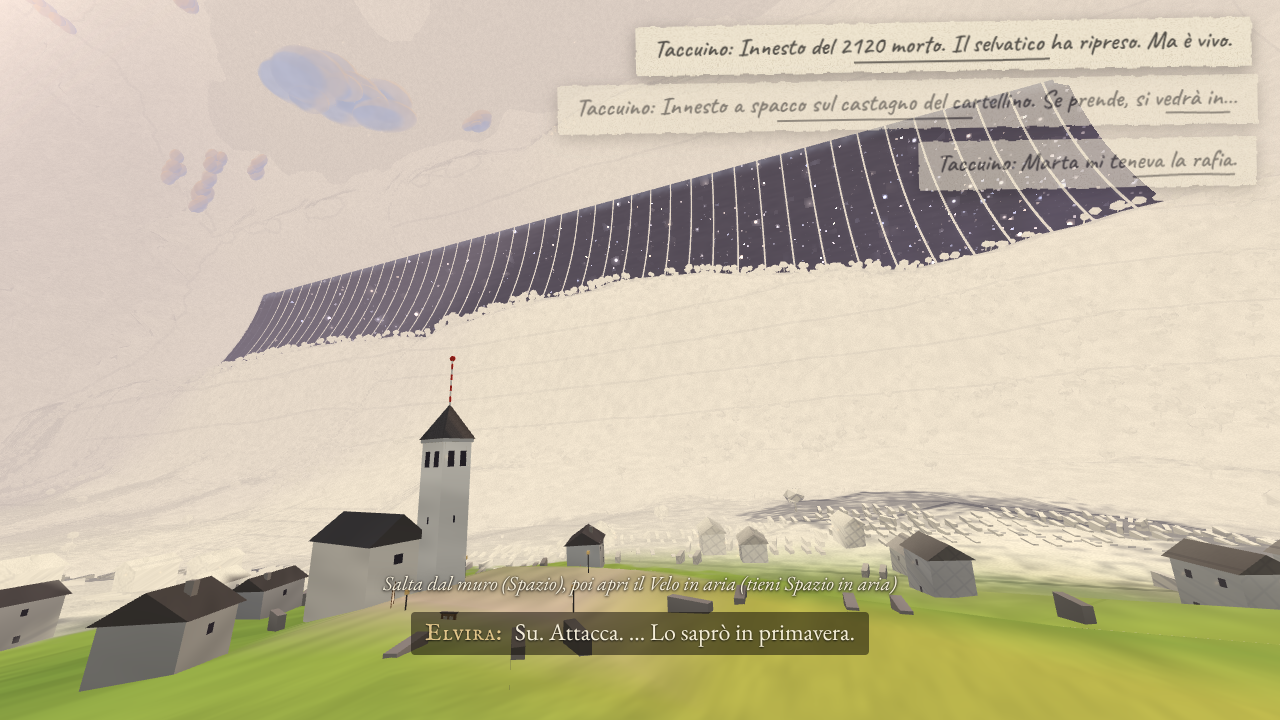
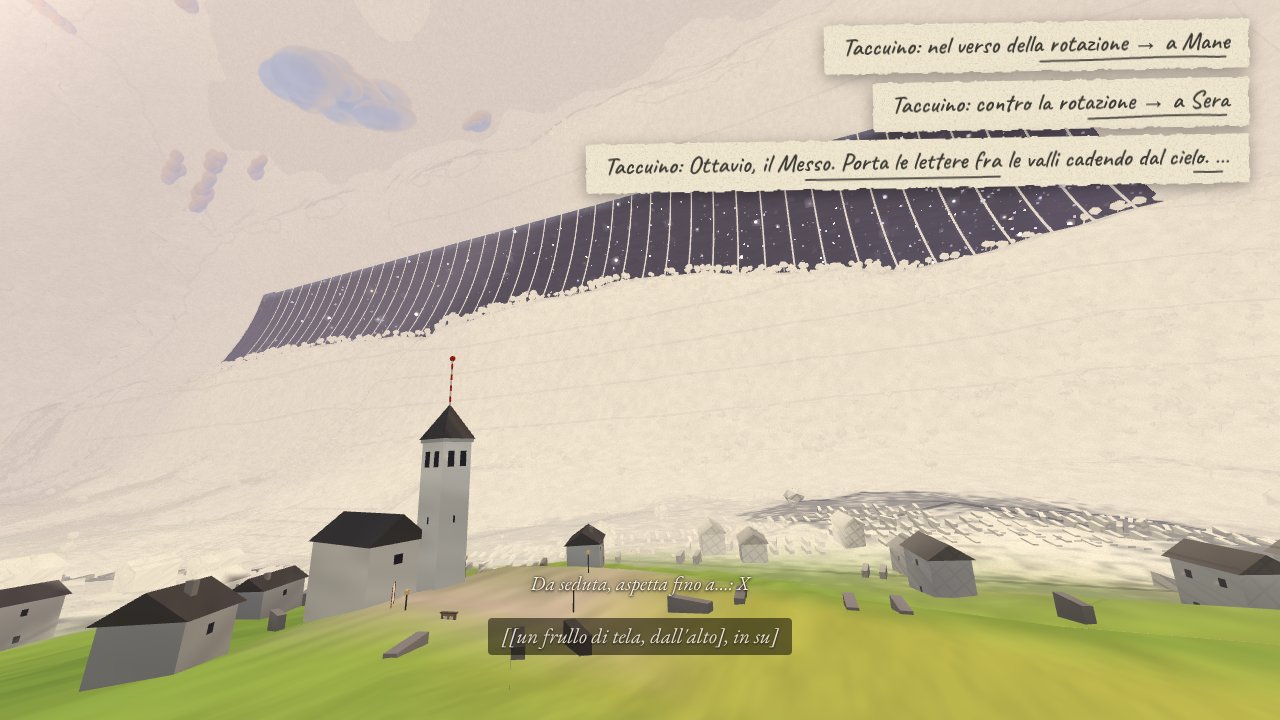
Cielo di Terra: istantanea del lavoro in corso
Claude-Session: https://claude.ai/code/session_016L3mhZfM8m5LnzdjzNNuFY

Changed region(s): [[0.4375, 0.0306, 1.0, 0.275], [0.2812, 0.7944, 0.7188, 0.9167]]

diff --git a/cielo-di-terra/moduli/popolamento/src/corbella.ts b/cielo-di-terra/moduli/popolamento/src/corbella.ts
@@ -1,28 +1,44 @@
 /**
  * installaCorbella(game, opzioni): sostituisce il paese segnaposto del motore con la Corbella vera
- * dei contenuti e restituisce la maniglia per l'integratore (punti, personaggi, varianti, dispose).
+ * dei contenuti e restituisce la maniglia per l'integratore: punti d'interazione, personaggi,
+ * elementi mobili con le varianti, botola della Cripta, collider etichettati, lumi, dispose.
  */
 import { Group, Vector3 } from 'three';
 import type { Collider } from '../../../src/world/colliders';
 import { impostaIntensitaLumi } from '../../oggetti/src/materiali';
+import { Abitanti, type ManigliaNpc } from './abitanti';
 import type { VoceCollider } from './cantiere';
+import { PARTICELLE, luogo } from './contenuti';
 import { Contesto } from './contesto';
+import { costruisciBalcone, costruisciGraDiPian, costruisciLontani, costruisciPilastriValle } from './luoghi/capisaldi';
 import { costruisciCasaPina, costruisciCasaVelo, costruisciCase } from './luoghi/case';
+import { costruisciCripta, type Cripta } from './luoghi/cripta';
 import { costruisciPiazza } from './luoghi/piazza';
+import { costruisciFienile, costruisciRiale, costruisciRonchi } from './luoghi/ronchi';
 import { costruisciCampanile, costruisciChiesa } from './luoghi/sanVigilio';
 import { costruisciSentieri } from './luoghi/sentieriCorbella';
+import { costruisciMuriDelVelo, costruisciTerrazzaPedrazzini } from './luoghi/terrazze';
+import { materialiMotore } from './materiali';
+import { attivaPunti, costruisciMobili, type ElementoCostruito } from './mobili';
+import { costruisciNotte, type Notte } from './notte';
+import { dentroCorbella, liberaCastagni, rimuoviSegnaposto, type RisultatoSegnaposto } from './segnaposto';
 import { costruisciMuriTerrazze } from './terrazzi';
 import { distanza, suolo } from './terreno';
-import { PARTICELLE, luogo } from './contenuti';
-import { materialiMotore } from './materiali';
-import { dentroCorbella, liberaCastagni, rimuoviSegnaposto, type RisultatoSegnaposto } from './segnaposto';
 import type { GiocoCorbella, PuntoInterazione } from './tipi';
 
 export interface OpzioniCorbella {
   /** 'rimuovi' (predefinito) toglie il paese segnaposto del motore; 'tieni' lo lascia (confronti) */
   segnaposto?: 'rimuovi' | 'tieni';
-  /** avvolge `game.update` per animare personaggi, botola, lanterne (predefinito true) */
+  /** avvolge `game.update` per animare personaggi, botola, Fade (predefinito true) */
   agganciaCiclo?: boolean;
+  /** i personaggi seguono da soli gli orari dei contenuti (predefinito true) */
+  orari?: boolean;
+  /** giorno di gioco iniziale per gli orari (predefinito 1) */
+  giorno?: number;
+  /** varianti iniziali degli elementi mobili (predefinite: `variante_iniziale` dei contenuti) */
+  varianti?: Partial<Record<'E1' | 'E2' | 'E3' | 'E4', string>>;
+  /** muri delle terrazze (predefinito true; false per un paese più leggero) */
+  muriTerrazze?: boolean;
 }
 
 export interface StatisticheCorbella {
@@ -31,23 +47,48 @@ export interface StatisticheCorbella {
   collider: number;
   lumi: number;
   punti: number;
-  castagniTolti: number;
   case: number;
   muriMetri: number;
+  personaggi: number;
+  castagniTolti: number;
   segnaposto: RisultatoSegnaposto | null;
   msCostruzione: number;
+}
+
+export interface ManigliaElemento {
+  readonly id: string;
+  readonly nome: string;
+  readonly variante: string;
+  readonly varianti: string[];
+  readonly particelle: number[];
 }
 
 export interface ManigliaCorbella {
   /** radice di tutto il popolamento nella scena */
   readonly radice: Group;
-  /** punti d'interazione per id */
+  /** punti d'interazione per id (`leggi:targa_p1`, `chiodo:3`, `parla:ottavio`, `apri:botola`, `dormi:fienile_ottavio`…) */
   readonly punti: ReadonlyMap<string, PuntoInterazione>;
   punto(id: string): PuntoInterazione | undefined;
-  /** punti attivi entro il loro raggio (o `raggioMax`) da una posizione mondo, dal più vicino */
+  /** punti attivi entro il loro raggio (o entro `raggioMax`) dalla posizione mondo, dal più vicino */
   puntiVicini(pos: Vector3, raggioMax?: number): PuntoInterazione[];
-  /** collider aggiunti al mondo, con tag e luogo */
-  readonly collider: readonly VoceCollider[];
+  /** personaggio per id di `personaggi.json` (più `velato_1`…`velato_12` e il gruppo `bambini`) */
+  npc(id: string): ManigliaNpc | undefined;
+  readonly personaggi: ReadonlyMap<string, ManigliaNpc>;
+  /** mette tutti i personaggi dove dicono i contenuti al giorno e all'ora (ore decimali) */
+  applicaOrario(giorno: number, ora: number): Record<string, string>;
+  /** giorno di gioco usato dagli orari automatici */
+  giorno: number;
+  /** cambia la variante di un elemento mobile (E1-E4): visibilità, collider, punti, lumi */
+  setVariante(elementoId: string, variante: string): void;
+  variante(elementoId: string): string | undefined;
+  readonly elementi: ReadonlyMap<string, ManigliaElemento>;
+  /** la Cripta: botola animata e interno */
+  readonly cripta: Cripta;
+  apriBotola(aperta: boolean): void;
+  /** le Fade e la lanterna di Tecla */
+  readonly notte: Notte;
+  /** collider aggiunti al mondo, con tag e luogo (varianti attive comprese) */
+  collider(): VoceCollider[];
   readonly lumi: readonly Vector3[];
   readonly statistiche: StatisticheCorbella;
   /** da chiamare a ogni passo se `agganciaCiclo` è false */
@@ -58,6 +99,8 @@ export interface ManigliaCorbella {
 export function installaCorbella(game: GiocoCorbella, opzioni: OpzioniCorbella = {}): ManigliaCorbella {
   const t0 = performance.now();
   const seg = (opzioni.segnaposto ?? 'rimuovi') === 'rimuovi' ? rimuoviSegnaposto(game) : null;
+  // i lumi del motore che restano (le varianti ricostruiscono la lista completa)
+  const lumiMotore = leggiLumi(game);
   const mat = materialiMotore(game);
   const ctx = new Contesto();
 
@@ -68,6 +111,17 @@ export function installaCorbella(game: GiocoCorbella, opzioni: OpzioniCorbella =
   costruisciChiesa(ctx);
   costruisciCasaPina(ctx);
   costruisciCasaVelo(ctx);
+  const cripta = costruisciCripta(ctx, mat);
+  costruisciTerrazzaPedrazzini(ctx);
+  costruisciMuriDelVelo(ctx);
+  costruisciRonchi(ctx);
+  costruisciRiale(ctx);
+  costruisciFienile(ctx);
+  const fumoGra = costruisciGraDiPian(ctx);
+  costruisciPilastriValle(ctx);
+  costruisciBalcone(ctx);
+  costruisciLontani(ctx);
+  const elementiCostruiti = costruisciMobili(ctx, mat);
   // 2. rustici sulle particelle abitate
   const case_ = costruisciCase(ctx);
   // 3. muri delle terrazze lungo le alzate dei gradoni
@@ -77,54 +131,122 @@ export function installaCorbella(game: GiocoCorbella, opzioni: OpzioniCorbella =
     const t = tipoCella.get(Math.floor(z / 40) * 96 + Math.floor(th / 3.75));
     return t === 'terrazze' || t === 'abitato';
   };
-  const muri = costruisciMuriTerrazze(ctx, {
-    regione: { z0: 1060, theta0: 35, xMin: -112, xMax: 150, yMin: -122, yMax: 150, passo: 1.5 },
-    prefissoZona: 'terrazze',
-    escludi: (z, th) => !terrazzata(z, th) || th < 16 || distanza({ z, theta: th }, piazza) < piazza.raggio + 3 || suolo(z, th) < 9,
-    dettaglio: (z, th) => (distanza({ z, theta: th }, piazza) < 70 ? 'alto' : 'basso'),
-  });
+  const muri =
+    opzioni.muriTerrazze === false
+      ? { metri: 0, pezzi: 0 }
+      : costruisciMuriTerrazze(ctx, {
+          regione: { z0: 1060, theta0: 35, xMin: -112, xMax: 150, yMin: -122, yMax: 150, passo: 1.5 },
+          prefissoZona: 'terrazze',
+          escludi: (z, th) => !terrazzata(z, th) || th < 16 || distanza({ z, theta: th }, piazza) < piazza.raggio + 3 || suolo(z, th) < 9,
+          dettaglio: (z, th) => (distanza({ z, theta: th }, piazza) < 70 ? 'alto' : 'basso'),
+        });
+  // 4. la notte e gli abitanti
+  const notte = costruisciNotte(ctx, game.uniforms);
+  const abitanti = new Abitanti(ctx);
 
   // cottura delle zone
   const radice = new Group();
   radice.name = 'corbella';
-  const collider: VoceCollider[] = [];
+  const colliderStatici: VoceCollider[] = [];
   const lumi: Vector3[] = [];
   const dimLumi: number[] = [];
   let triangoli = 0;
   for (const z of ctx.zone.values()) {
     radice.add(z.costruisci(mat));
-    collider.push(...z.collider);
+    colliderStatici.push(...z.collider);
     lumi.push(...z.lumi);
     dimLumi.push(...z.dimensioniLumi);
     triangoli += z.triangoli;
   }
-  collider.push(...ctx.colliderDinamici);
+  colliderStatici.push(...ctx.colliderDinamici);
   radice.add(ctx.dinamici);
+  radice.add(abitanti.gruppo);
   game.scene.add(radice);
-  for (const c of collider) game.world.colliders.add(c.collider);
-  if (lumi.length) game.lamps.addLamps(lumi, dimLumi);
+  for (const c of colliderStatici) game.world.colliders.add(c.collider);
+  abitanti.collegaCollider(game.world.colliders);
+
+  // elementi mobili: varianti iniziali (collider della variante attiva nel mondo)
+  const colliderVarianti = new Map<string, VoceCollider[]>();
+  const elementi = new Map<string, ManigliaElemento>();
+  const aggiornaLumi = () => {
+    const extra: Vector3[] = [];
+    for (const e of elementiCostruiti.values()) {
+      const v = e.varianti.get(e.attiva);
+      const l = (v?.gruppo.userData['lumi'] as Vector3[] | undefined) ?? [];
+      extra.push(...l);
+    }
+    game.lamps.setLamps([...lumiMotore.lista, ...lumi, ...extra], [...lumiMotore.dim, ...dimLumi, ...extra.map(() => 0.55)]);
+  };
+  const setVariante = (id: string, v: string) => {
+    const e = elementiCostruiti.get(id);
+    if (!e) throw new Error(`popolamento: elemento mobile sconosciuto «${id}»`);
+    if (!e.varianti.has(v)) throw new Error(`popolamento: variante «${v}» sconosciuta per ${id} (${[...e.varianti.keys()].join(', ')})`);
+    for (const c of colliderVarianti.get(id) ?? []) game.world.colliders.remove(c.collider.id);
+    for (const [vid, vv] of e.varianti) {
+      vv.gruppo.visible = vid === v;
+      attivaPunti(ctx.punti, vv.punti, vid === v);
+    }
+    const nuova = e.varianti.get(v)!;
+    const lista = nuova.collider.map((c) => ({ ...c, collider: { ...c.collider } as Collider }));
+    for (const c of lista) game.world.colliders.add(c.collider);
+    colliderVarianti.set(id, lista);
+    e.attiva = v;
+    aggiornaLumi();
+  };
+  for (const e of elementiCostruiti.values()) {
+    const iniziale = opzioni.varianti?.[e.id as 'E1'] ?? e.contenuto.variante_iniziale;
+    elementi.set(e.id, maniglieElemento(e));
+    setVariante(e.id, iniziale);
+  }
+  aggiornaLumi();
 
   const castagniTolti = liberaCastagni(game, (p) => {
     const c = cilDa(p);
     return ctx.occupato(c.z, c.theta, 1.5) || ctx.distanzaSentieri(c.z, c.theta) < 1.2;
   });
 
+  // orari
+  let giorno = opzioni.giorno ?? 1;
+  const orari = opzioni.orari ?? true;
+  let ultimaOra = -1;
+  const ora = () => game.sky?.hours ?? game.clock?.hours ?? 10;
+  if (orari) abitanti.applicaOrario(giorno, ora());
+
+  // botola: collider attivi solo da chiusa
+  const apriBotola = (a: boolean) => {
+    cripta.apriBotola(a);
+    for (const c of cripta.colliderBotola) {
+      game.world.colliders.remove(c.id);
+      if (!a) game.world.colliders.add(c);
+    }
+  };
+
   const statistiche: StatisticheCorbella = {
     zone: ctx.zone.size,
     triangoli,
-    collider: collider.length,
+    collider: colliderStatici.length,
     lumi: lumi.length,
     punti: ctx.punti.size,
-    castagniTolti,
     case: case_.length,
     muriMetri: Math.round(muri.metri),
+    personaggi: abitanti.npc.size,
+    castagniTolti,
     segnaposto: seg,
     msCostruzione: 0,
   };
 
   const update = (dt: number) => {
+    const h = ora();
     impostaIntensitaLumi(game.sky?.night ?? 0);
     for (const a of ctx.animati) a.update?.(dt);
+    // fumo della grà di Pian dalle 6 alle 10
+    fumoGra.visible = h >= 6 && h < 10;
+    if (orari && Math.abs(h - ultimaOra) > 1 / 60) {
+      ultimaOra = h;
+      abitanti.applicaOrario(giorno, h);
+    }
+    abitanti.update(dt, game.sky as never);
+    notte.update(dt, h);
   };
 
   let origUpdate: ((dt: number) => void) | undefined;
@@ -136,6 +258,8 @@ export function installaCorbella(game: GiocoCorbella, opzioni: OpzioniCorbella =
       update(dt);
     };
   }
+  // un primo passo per mettere tutto in posa
+  update(0);
 
   const maniglia: ManigliaCorbella = {
     radice,
@@ -150,7 +274,26 @@ export function installaCorbella(game: GiocoCorbella, opzioni: OpzioniCorbella =
       }
       return out.sort((a, b) => a.d - b.d).map((x) => x.p);
     },
-    collider,
+    npc: (id) => abitanti.npc.get(id),
+    personaggi: abitanti.npc,
+    applicaOrario: (g, h) => {
+      giorno = g;
+      return abitanti.applicaOrario(g, h);
+    },
+    get giorno() {
+      return giorno;
+    },
+    set giorno(g: number) {
+      giorno = g;
+      ultimaOra = -1;
+    },
+    setVariante,
+    variante: (id) => elementiCostruiti.get(id)?.attiva,
+    elementi,
+    cripta,
+    apriBotola,
+    notte,
+    collider: () => [...colliderStatici, ...[...colliderVarianti.values()].flat()],
     lumi,
     statistiche,
     update,
@@ -160,29 +303,43 @@ export function installaCorbella(game: GiocoCorbella, opzioni: OpzioniCorbella =
         const m = o as unknown as { geometry?: { dispose(): void } };
         m.geometry?.dispose();
       });
-      for (const c of collider) game.world.colliders.remove((c.collider as Collider).id);
-      // lumi del popolamento
-      const set = new Set(lumi.map((p) => `${p.x.toFixed(3)},${p.y.toFixed(3)},${p.z.toFixed(3)}`));
-      const geo = game.lamps.points.geometry;
-      const pos = geo.getAttribute('position');
-      if (pos) {
-        const lista: Vector3[] = [];
-        const dim: number[] = [];
-        const size = geo.getAttribute('aSize');
-        for (let i = 0; i < pos.count; i++) {
-          const p = new Vector3().fromBufferAttribute(pos, i);
-          if (!set.has(`${p.x.toFixed(3)},${p.y.toFixed(3)},${p.z.toFixed(3)}`)) {
-            lista.push(p);
-            dim.push(size ? size.getX(i) : 0.6);
-          }
-        }
-        game.lamps.setLamps(lista, dim);
-      }
+      for (const c of colliderStatici) game.world.colliders.remove((c.collider as Collider).id);
+      for (const l of colliderVarianti.values()) for (const c of l) game.world.colliders.remove(c.collider.id);
+      abitanti.dispose();
+      notte.dispose();
+      game.lamps.setLamps(lumiMotore.lista, lumiMotore.dim);
       if (origUpdate) game.update = origUpdate;
     },
   };
   statistiche.msCostruzione = Math.round(performance.now() - t0);
   return maniglia;
+}
+
+function maniglieElemento(e: ElementoCostruito): ManigliaElemento {
+  return {
+    id: e.id,
+    nome: e.nome,
+    get variante() {
+      return e.attiva;
+    },
+    varianti: [...e.varianti.keys()],
+    particelle: [...e.contenuto.particelle],
+  };
+}
+
+function leggiLumi(game: GiocoCorbella): { lista: Vector3[]; dim: number[] } {
+  const geo = game.lamps.points.geometry;
+  const pos = geo.getAttribute('position');
+  const size = geo.getAttribute('aSize');
+  const lista: Vector3[] = [];
+  const dim: number[] = [];
+  if (pos) {
+    for (let i = 0; i < pos.count; i++) {
+      lista.push(new Vector3(pos.getX(i), pos.getY(i), pos.getZ(i)));
+      dim.push(size ? size.getX(i) : 0.6);
+    }
+  }
+  return { lista, dim };
 }
 
 function cilDa(p: Vector3): { z: number; theta: number } {
